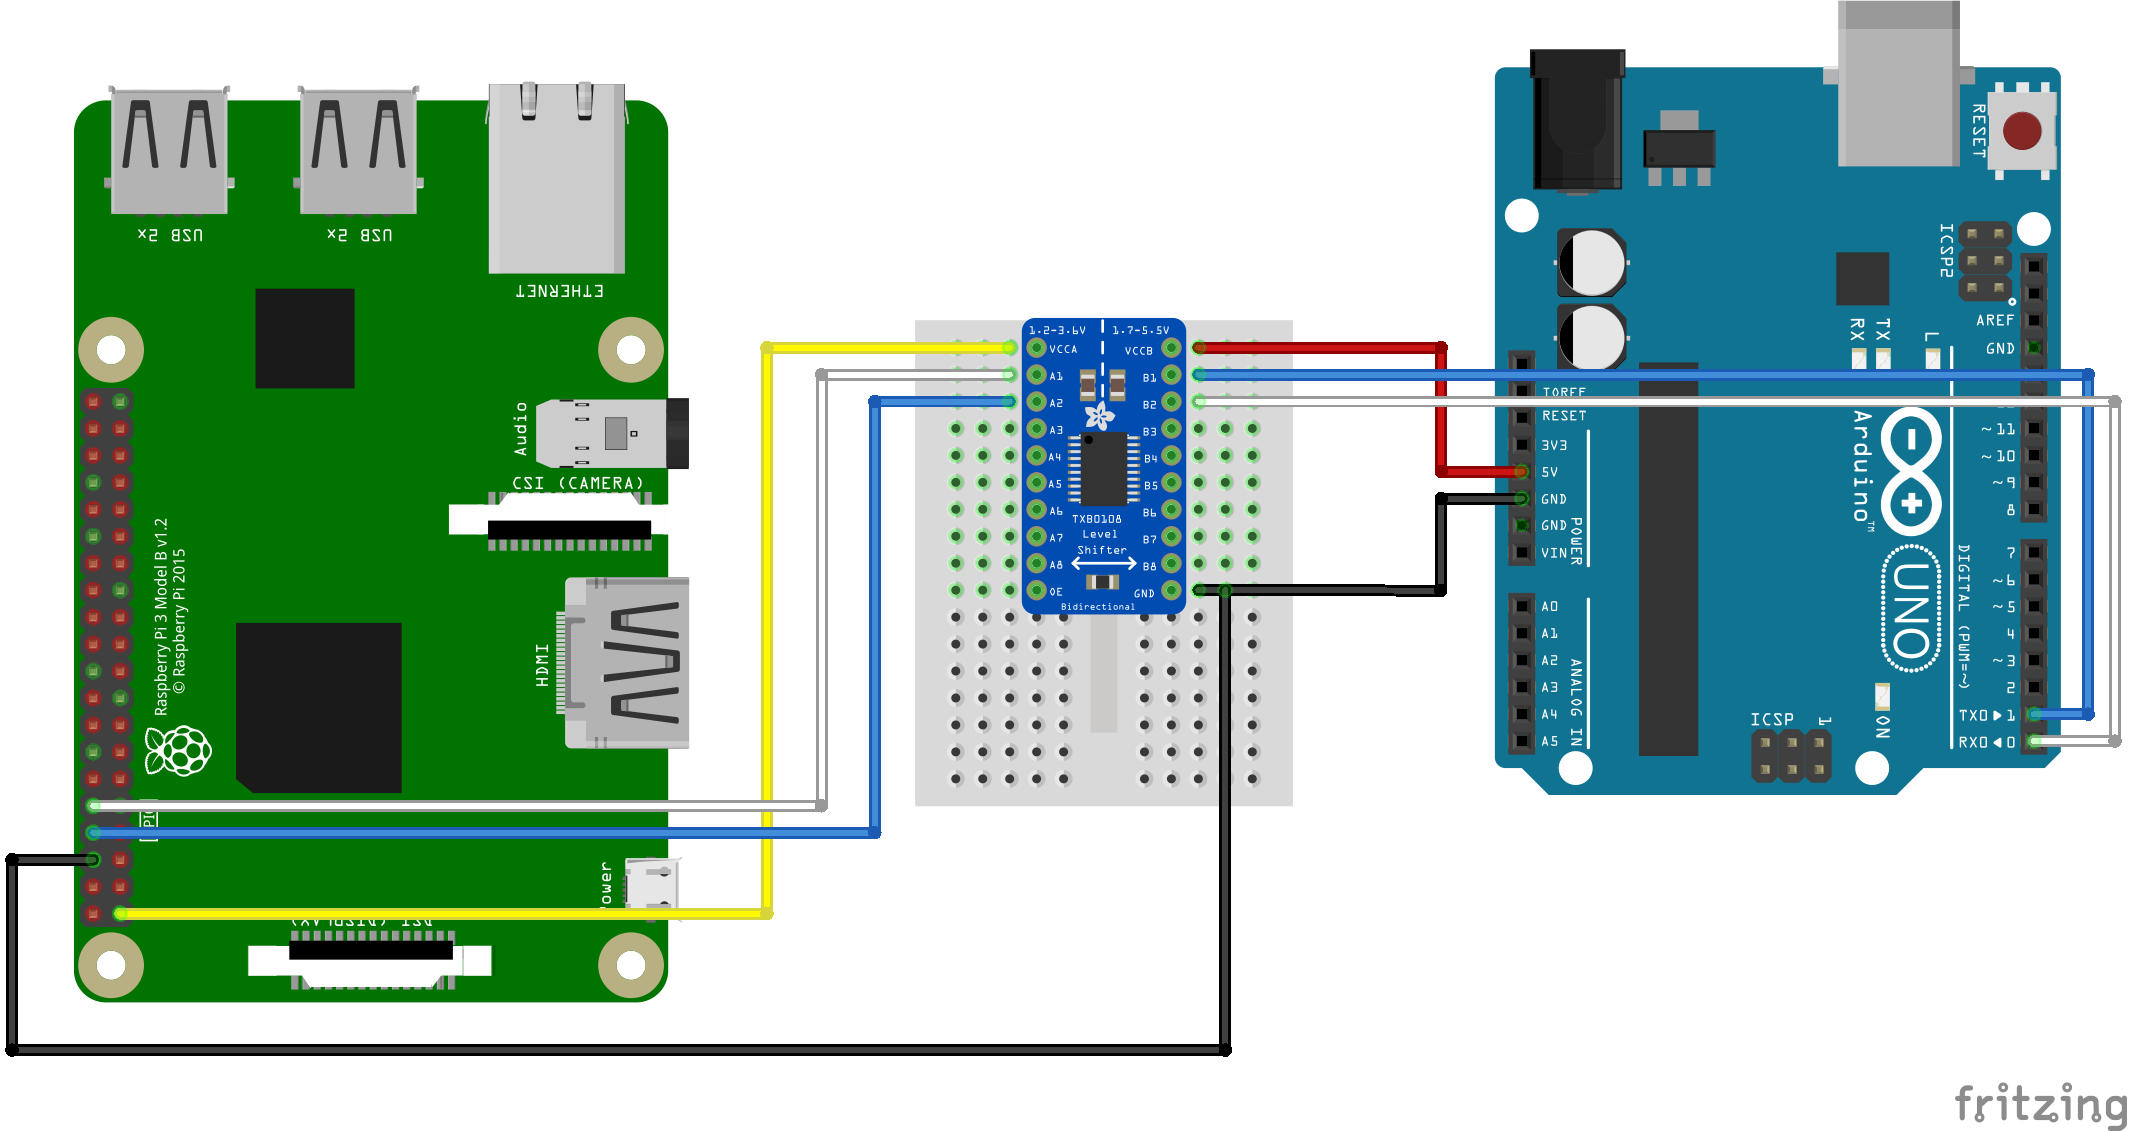
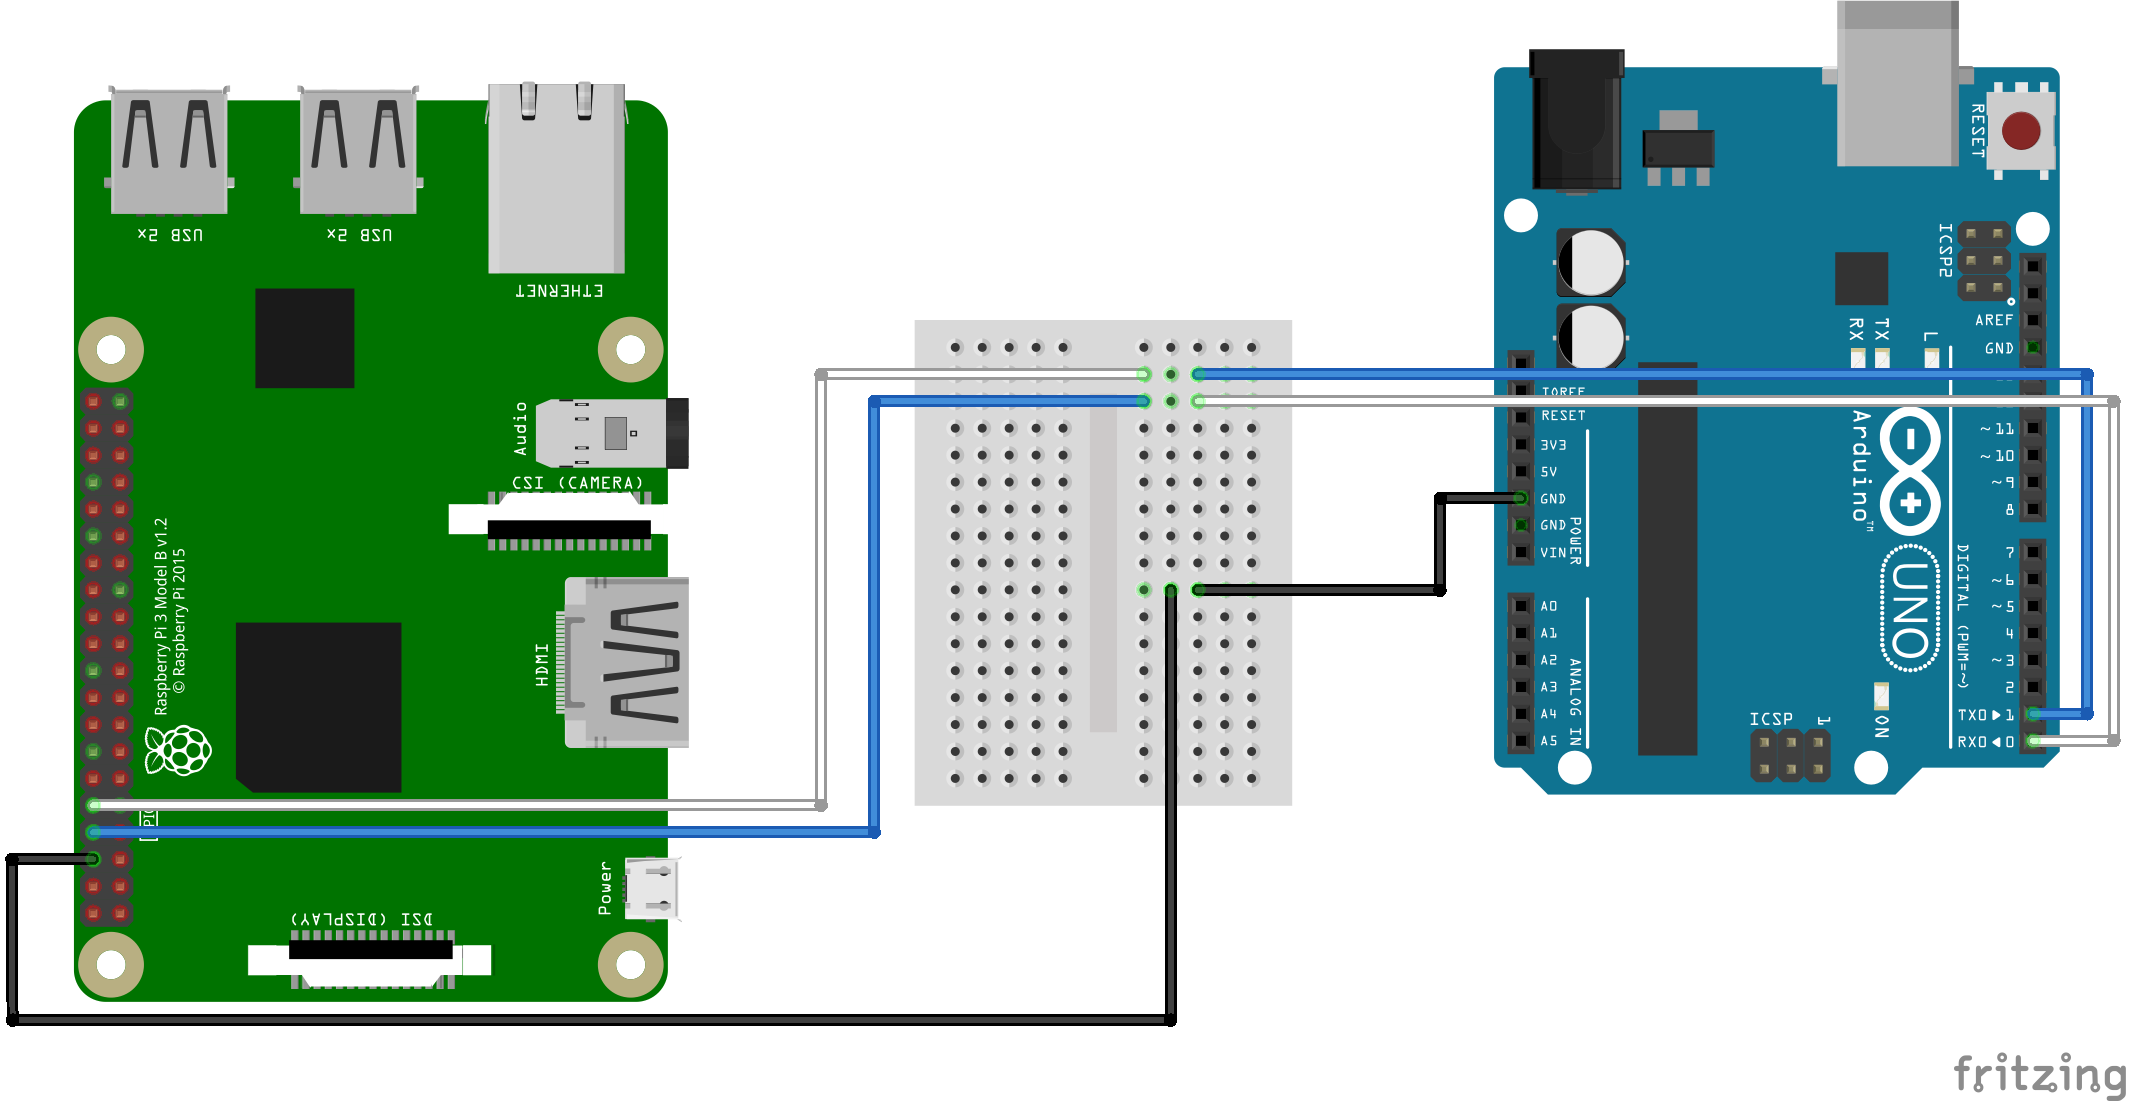
Kommunikation angepasst

diff --git a/Projektdokumentation_PREN2.tex b/Projektdokumentation_PREN2.tex
@@ -345,7 +345,7 @@ Wie in Abb. \ref{fig:RaspberryPins} dargestellt sind dies Pin 8 (Tx) und Pin 10 
 	\label{fig:RaspberryPins}
 \end{figure}
 
-Da das Arduino mit einer Spannung von bis zu 5V auf seinen UART Pins arbeitet und das Raspberry Pi mit nur 3.3V muss ein Logikpegelübersetzer eingesetzt werden. Wir verwenden dazu ein TXB0108 von Adafruit.
+Die RX und TX Pins des Raspberry Pi werden mit den jeweils komplementären Pins des Arduino (dh. TX und RX) zusammengesteckt.
 
 UART muss auf dem Raspberry Pi manuell aktiviert werden.  Zusätzlich muss das integrierte Bluetooth-Modul deaktiviert werden, sodass die genannten Ports nicht \textquotedblleft miniUART\textquotedblright\ verwenden.
 
